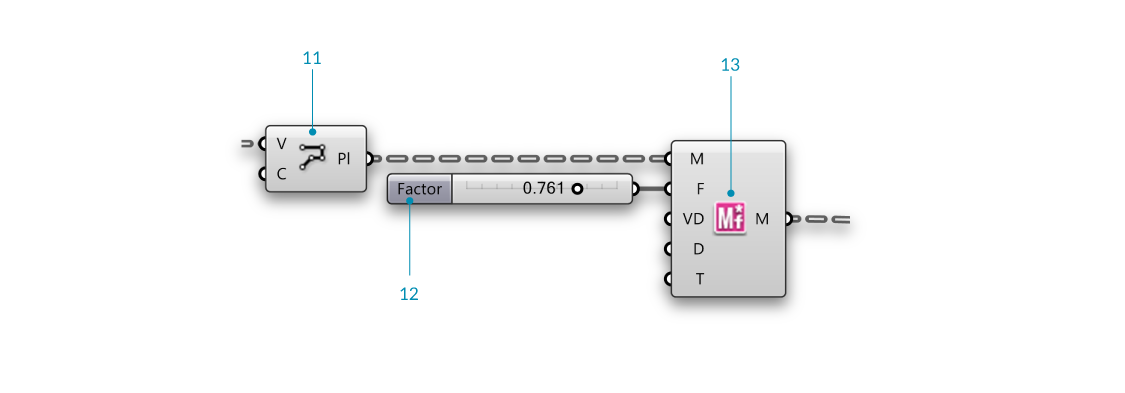
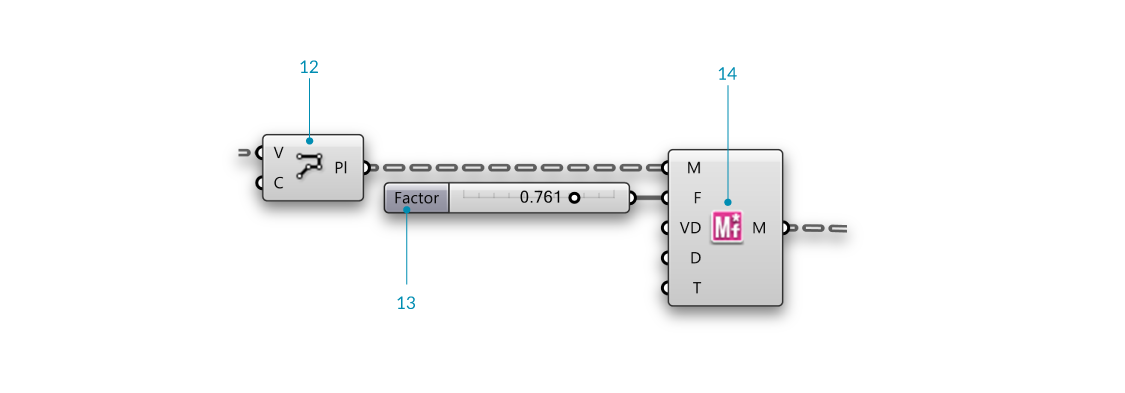
Formatting Steps in Example A Part A B C

Changed region(s): [[0.1867, 0.1527, 0.7778, 0.8244], [0.3422, 0.7328, 0.3733, 0.7939], [0.2489, 0.1527, 0.28, 0.1832]]

diff --git a/en/2-extensions/2-1/3_Architectural Case Study.md b/en/2-extensions/2-1/3_Architectural Case Study.md
@@ -1,11 +1,11 @@
-### 2.1.3 Element* Architectural Case Study 
+### 2.1.4 Element* Architectural Case Study 
 
 #####In this section, we will work through a simple exercise file for producing architectural facades. The case studies will be broken down into 3 Phases with this being Phase 1. Phase 2 and 3 will come at a later time. This example incorporates Half Edge data structures along with basic Element* components without the use of per vertex features.
 
 ![IMAGE](images/Arch_CaseStudy/Main_Render.jpg)
 
 
-####2.1.3.1 Example 1
+####2.1.4.1 Example 1
 
 {% if gitbook.generator == "pdf" or gitbook.generator == "mobi" or gitbook.generator == "epub" %}
 >Example files that accompany this section: [http://grasshopperprimer.com/appendix/A-2/1_gh-files.html](http://grasshopperprimer.com/appendix/A-2/1_gh-files.html)
@@ -32,12 +32,12 @@ thead {display: none}
 |01.| **Params/Geometry/Mesh** - Drag and drop a **Mesh** container onto the canvas|![IMAGE](images/mesh.png)|
 |01.| Reference a mesh in Rhino by right-clicking the **Mesh** component and selecting "Set one Mesh". <br><br><blockquote>We are going to use a simple mesh plane to walk through the definition, feel free to swap out the mesh with your own mesh</blockquote>||
 |02.| **Element\*/Utility/Mesh Combine and Clean** - Drag and drop a **Mesh Combine and Clean** component on the canvas|![IMAGE](images/combine-and-clean_new.png)|
-|03.| **Element\*/Data/Vertex Neighbors** - Drag and drop the **Vertex Neighbors** component onto the canvas| ![IMAGE](images/vertex-neighbors.png)|
+|03.| **Element\*/Data/Vertex Neighbors** - Drag and drop the **Element* Vertex Neighbors** component onto the canvas| ![IMAGE](images/vertex-neighbors.png)|
 |04.| **Params/Input/Number Slider** - Drag and drop a **Number Slider** component onto the canvas and set the following values: <ul>Lower Limit: 0.0000<br>Upper Limit: 1.0000</ul>||
 |05.| **Curve/Analysis/Evaluate Curve** - Drag and drop a **Evaluate Curve** container onto the canvas|![IMAGE](images/evaluate-curve-b.png)|
-|05b.| Connect the Neighbouring Edges (NE) output of the **Vertex Neighbors** component to the Curve (C) input of the **Evaluate Curve** component||
-|05c.| Connect the **Number Slider** to the input of the Float (t) input of the **Evaluate Curve** component||
-|05d.| Right click the Curve (C) input of the **Evaluate Curve** component and enable **Reparameterize** ||
+|05b.| Connect the Neighbouring Edges (NE) output of the **Element* Vertex Neighbors** component to the Curve (C) input of the **Evaluate Curve** component||
+|05c.| Connect the **Number Slider** to the Float (t) input of the **Evaluate Curve** component||
+|05d.| Right click the Curve (C) input of the **Evaluate Curve** component and enable **Reparameterize** |||
 
 ![IMAGE](images/Arch_CaseStudy/Example_A/Example_A_Part_A.png)
 ---
@@ -46,17 +46,16 @@ thead {display: none}
 
 ||||
 |--|--|--|
-|08.| **Params/Input/Number Slider** - Drag and drop a **Number Slider** component onto the canvas and set the following values: <ul>Rounding: Float<br>Lower Limit:0<br>Upper Limit: 0.5</ul>||
-|09.| **Params/Input/Panel** - Drag and drop a **Panel** component onto the canvas||
-|10.| Double-click the **Panel** component and enter "1" into the text-field||
-|11.| **Math/Operators/Subtraction** - Drag and drop a **Subtraction** component onto the canvas|![IMAGE](images/subtraction.png)|
-|12.| Connect the **Panel** with a value of "1" into the A input and connect the number slider to the B input of the **Subtraction** component||
-|13.| **Sets/Tree/Merge** - Drag and drop a **Merge** component onto the canvas|![IMAGE](images/merge.png)|
-|14.| Connect the **Number Slider** to the D1 input of **Merge**, and connect the output R of the **Subtraction** component to the D2 input of **Merge**||
-|15.| **Curve/Analysis/Evaluate Curve** - Drag and drop an **Evaluate Curve** component onto the canvas|![IMAGE](images/evaluate-curve.png)
-|16.| Connect the Face Edges (NE) output of the **Face Neighbors** component to the Curve (C) input of the the **Evaluate Curve** component||
-|17.| Right click the Curve (C) input of the **Evaluate Curve** component and select Graft. This will create a new branch for each edge.||
-|18.| Connect the Result (R) output of the **Merge** component to the Parameter (t) input of the **Evaluate Curve** component. Because we grafted the Curve input, each edge is evaluated at both parameters from **Merge**|||
+|06.| **Element\*/Analyse/Mesh Closest Point** - Drag and drop a **Element* Mesh Closest Point** container onto the canvas|![IMAGE](images/element_MeshClosestPoint.png)|
+|06a.| Connect the Mesh output (M) of the **Element\*/Utility/Mesh Combine and Clean** component to the Mesh (M) input of the **Element* Mesh Closest Point** component||
+|06b.| Connect the Points output (P) of the **Curve/Analysis/Evaluate Curve** component to the Point (P) input of the **Element* Mesh Closest Point** component||
+|07.| **Params/Input/Number Slider** - Drag and drop a **Number Slider** component onto the canvas and set the following values: <ul>Rounding: Float<br>Lower Limit:0<br>Upper Limit: 10.000</ul>||
+|08.| **Vector/Vector/Amplitude** - Drag and drop a **Amplitude** component onto the canvas|![IMAGE](images/vec_Amplitude.png)|
+|09.| **Transform/Euclidean/Move** - Drag and drop a **Move** component onto the canvas|![IMAGE](images/transform_move.png)|
+|10.| **Params/Geometry/Point** - Drag and drop a **Point** container onto the canvas|![IMAGE](images/point.png)|
+|10b.| Connect the Face Centers output (FC) of the **Element* Vertex Neighbors** component to the **Point** component||
+|11.| **Sets/List/Weave** - Drag and drop a **Weave** component onto the canvas|![IMAGE](images/weave.png)||
+
 
 ![IMAGE](images/Arch_CaseStudy/Example_A/Example_A_Part_B.png)
 ---
@@ -64,15 +63,13 @@ thead {display: none}
 
 ||||
 |--|--|--|
-|19.| **Sets/Tree/Trim Tree** - Drag and drop a **Trim Tree** component onto the canvas|![IMAGE](images/trim-tree.png)|
-|20.| Connect the Points (P) output of **Evaluate Curve** to the Tree (T) input of the **Trim Tree** component. <br><blockquote>The default value of Depth (D) input for **Trim Tree** is 1. This reduce the depth of our data tree one level by merging the outer most branch. The result is 20 branches, each with six points. </blockquote>||
-|21.| **Curve/Spline/Polyline** - Drag and drop a **Polyline** component onto the canvas|![IMAGE](images/polyline.png)|
-|22.| Connect the Tree (T) output of the **Trim Tree** component to the Vertices (V) input of the **Polyline** component ||
-|23.| Right click the Closed (C) input of the **Polyline** component, click "Set Boolean" and set the value to True <br><blockquote>This has created a closed polyline of six sides for each original face of the mesh.</blockquote>||
-|24.| **Element\*/Transform/Mesh Frame** - Drag and drop a **Mesh Frame** component onto the canvas.|![IMAGE](images/mesh-frame.png)
-|25.| Connect the Polyline (Pl) output of the **Polyline** component to the Geometry (G) input of the **Mesh Frame** component <br><blockquote>Note that the **Mesh Frame** component can take either meshes or a list of closed polyline curves as input</blockquote>||
-|26.| **Params/Input/Number Slider** - Drage and drop a **Number Silder** component onto the canvas. We will keep the default range of 0 to 1 for this slider||
-|27.| Connect the **Number Slider** to the Factor (F) input of the **Mesh Frame** component|||
+|12.| **Curve/Primitive/Polyline** - Drag and drop a **Polyline** component onto the canvas|![IMAGE](images/polyline.png)|
+|12b.| Connect the Weave output (W) of the **Weave** component to the Vertices (V) input of the **Polyline** component||
+|12c.| Right click the Closed (C) input of the **Polyline** component, click "Set Boolean" and set the value to True <br><blockquote>This has created a closed polyline.</blockquote>||
+|13.| **Params/Input/Number Slider** - Drage and drop a **Number Silder** component onto the canvas. We will keep the default range of 0 to 1 for this slider||
+|14.| **Element\*/Transform/Mesh Frame** - Drag and drop a **Mesh Frame** component onto the canvas.|![IMAGE](images/mesh-frame.png)
+|14b.| Connect the Polyline (Pl) output of the **Polyline** component to the Geometry (G) input of the **Mesh Frame** component <br><blockquote>Note that the **Mesh Frame** component can take either meshes or a list of closed polyline curves as input</blockquote>||
+|14c.| Connect the **Number Slider** to the Factor (F) input of the **Mesh Frame** component|||
 
 ![IMAGE](images/Arch_CaseStudy/Example_A/Example_A_Part_C.png)
 ---
@@ -102,7 +99,7 @@ thead {display: none}
 ![IMAGE](images/Arch_CaseStudy/Example_A/Example_A.png)
 ---
 
-####2.1.3.2 Example 2
+####2.1.4.2 Example 2
 ---
 ![IMAGE](images/Arch_CaseStudy/Example_B/Animation_03.gif)
 

diff --git a/en/2-extensions/2-1/2_Components.md b/en/2-extensions/2-1/2_Components.md
@@ -1,8 +1,8 @@
-####2.1.2 Element* Components
+####2.1.3 Element* Components
 
 ![IMAGE](images/2.1.2_Components/COMPONENT_TABS.png)
 
-####2.1.2.1 Analyse
+####2.1.3.1 Analyse
 
 ![IMAGE](images/02_analyse-components.png)
 >1. Mesh Closest Point
@@ -25,7 +25,7 @@ This component is used to quickly extract color information from a mesh. It retu
 
 
 
-####2.1.2.2 Data
+####2.1.3.2 Data
 
 ![IMAGE](images/03_data-components.png)
 >1. Data Visualizer
@@ -59,7 +59,7 @@ This component outputs the mesh vertices, neighboring vertices (arranged in cloc
 ![IMAGE](images/04C_vertex-neighbors.png)
 > **Vertex Neighbors** - Vertices, neighbouring vertices, neighbouring edges, neighbouring face centers
 
-####2.1.2.3 Primitives
+####2.1.3.3 Primitives
 
 Element\* provides four additional mesh primitives: the Dodecahedron, Tetrahedron, Octahedron, and Icosahedron. These components take a single number as input for the radius, and produce meshes centered at the origin, and composed of one face per side. With the addition of the Cube, which is already availible through Grasshopper's built-in primitives, these make up the five Platonic solids. 
 
@@ -69,13 +69,13 @@ Element\* provides four additional mesh primitives: the Dodecahedron, Tetrahedro
 3. Octahedron
 4. Icosahedron
 
-####2.1.2.4 Smooth
+####2.1.3.4 Smooth
 
 **Element\* Smooth** provides an optimized smoothing algorithm that is more efficient than Grasshopper's **Smooth Mesh** for large datasets. It makes use of the Lapacian Smoothing algorithm for Half-Edge structured meshes. It does not change the topology or vertex count of welded meshes, but will combine identical vertices if there are any duplicates caused by an unwelded mesh. We can specify the number of smoothing strength, boundary condition, boundary tolerance as well as the number of iterations.
 
 ![IMAGE](images/06_smooth.png)
 
-####2.1.2.5 Subdivide
+####2.1.3.5 Subdivide
 
 **Element\* Catmull Clark Subdivision** 
 
@@ -90,7 +90,7 @@ This subdivison component will create an all quad mesh by adding a face for each
 >1. Constant Quad subdivision
 2. Catmull Clark subdivision
 
-####2.1.2.6 Transform
+####2.1.3.6 Transform
 
 ![IMAGE](images/08_transforms-components.png)
 >1. Mesh Windown
@@ -127,7 +127,7 @@ For example, a four-sided polygon (quad) is split into 4 three-sided polygons wi
 2. Mesh Frame
 3. Icosohedron transformed with mesh frame, then thickend and subdivided
 
-####2.1.2.7 Utility
+####2.1.3.7 Utility
 
 ![IMAGE](images/09_Utility-Component.png)
 >1. Mesh Combine & Clean

diff --git a/en/2-extensions/2-1/1_HalfEdge_Data.md b/en/2-extensions/2-1/1_HalfEdge_Data.md
@@ -1,4 +1,4 @@
-####2.1.1 Half Edge Data
+####2.1.2 Half Edge Data
 
 In the beginning of this chapter, we looked at how Grasshopper defines a mesh using a Face-Vertex data structure. This is a relatively simple data structure and is widely used in applications that use meshes, but can be computationally inefficient for more advanced algorithms. The Element\* add-on restructures the mesh using Half-Edge data in order to allow for efficient queries of adjacent vertices, faces, and edges, which can vastly improve on algorithm speed and performance.
 

diff --git a/en/2-extensions/2-1/0_Element_Intro.md b/en/2-extensions/2-1/0_Element_Intro.md
@@ -1,4 +1,4 @@
-### 2.1 Element* 
+### 2.1.1 Element* 
 ###### User Guide to Element* Tools
 ![IMAGE](images/Element_Icons_Cover.png)
 ####Element\* is a mesh geometry plugin for Grasshopper, enabling mesh creation, analysis, transformation, subdivision, and smoothing. Element* provides access to mesh topology data using the Plankton half-edge data structure for polygon meshes.
